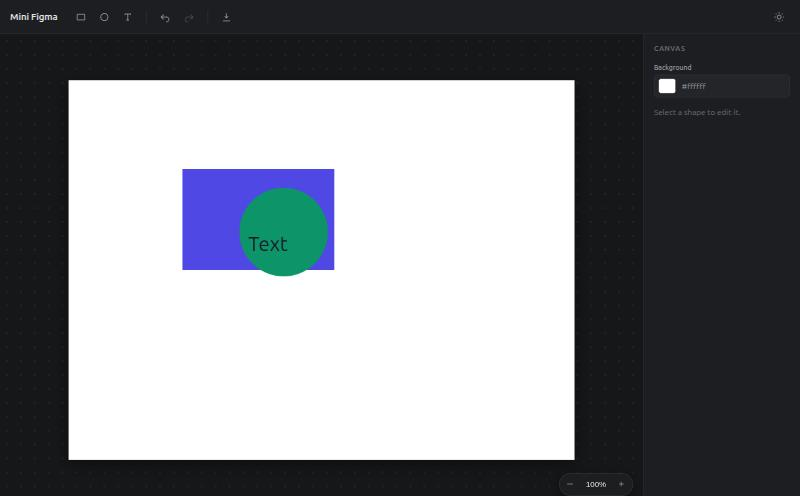
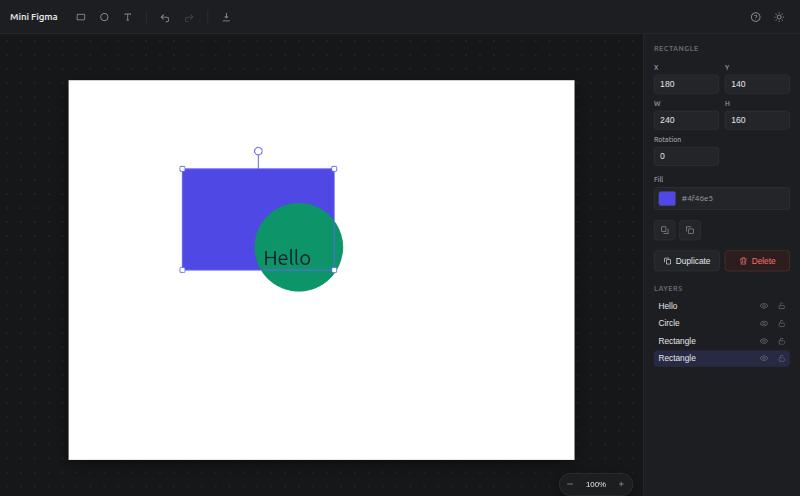
docs: refresh README and screenshots for the new features
Document text editing, artboard sizing, layers, persistence and the full
shortcut set; update the screenshots to the current UI.

diff --git a/README.md b/README.md
@@ -10,28 +10,33 @@ A small Figma-like visual editor built with React, TypeScript and an HTML5 canva
 
 ## Features
 
-- **Shapes** — add rectangles, circles and text to the canvas; they animate in.
-- **Selection** — click to select the topmost shape under the cursor; click empty space to deselect.
-- **Transform** — drag a shape to move it, drag the corner handles to resize, and drag the rotation handle to rotate. Resizing and rotation are fully rotation-aware, so a rotated shape still scales along its own axes.
-- **Properties panel** — edit the selected shape's X, Y, width, height, rotation and fill color, with live updates. With nothing selected, the panel edits the artboard background color.
-- **Duplicate & delete** — duplicate the selection or remove it from the panel or the keyboard.
-- **Undo / redo** — history with per-gesture granularity, available from the toolbar and keyboard.
-- **Zoom & pan** — zoom the artboard toward the cursor, with `+`/`-` controls and a visible percentage; pan by dragging. Selection and transforms work at any zoom.
+- **Shapes** — add rectangles, circles and text; new shapes animate in.
+- **Transform** — drag to move, drag the corner handles to resize, and drag the rotation handle to rotate. Resizing and rotation are rotation-aware, so a rotated shape still scales along its own axes.
+- **Text editing** — double-click a text to edit it in place; the box hugs its content, with font size, weight and color controls.
+- **Properties panel** — edit the selection's position, size, rotation and fill with live updates. With nothing selected it edits the artboard background.
+- **Artboard** — set the canvas width and height or pick a preset (square, 1920×1080, 1280×720, A4); resizing never distorts the shapes.
+- **Layers** — a layer list to select, reorder (bring to front / send to back), lock and hide shapes.
+- **Zoom & pan** — zoom toward the cursor with `Ctrl`+scroll or the `+`/`-` controls, pan with the wheel or by dragging. Selection and transforms work at any zoom.
+- **Undo / redo** — history with per-gesture granularity, from the toolbar or keyboard.
+- **Persistence** — the design, artboard size and theme are saved to `localStorage` and restored on reload.
 - **Theme** — switch between light and dark; the choice is remembered.
-- **Export** — download the artboard as a 2× PNG, always at 100% regardless of the current zoom.
+- **Export** — download the artboard as a 2× PNG, always rendered at 100%.
 
 ## Keyboard shortcuts
 
-| Action        | Shortcut                                           |
-| ------------- | -------------------------------------------------- |
-| Undo          | `Ctrl/Cmd + Z`                                     |
-| Redo          | `Ctrl/Cmd + Shift + Z` or `Ctrl + Y`               |
-| Duplicate     | `Ctrl/Cmd + D`                                     |
-| Delete shape  | `Delete` or `Backspace`                            |
-| Zoom in / out | `Ctrl/Cmd + scroll`                                |
-| Reset zoom    | `Ctrl/Cmd + 0`                                     |
-| Pan canvas    | Drag with `Space` held, or the middle mouse button |
-| Snap rotation | Hold `Shift` while rotating (15°)                  |
+| Action          | Shortcut                                           |
+| --------------- | -------------------------------------------------- |
+| Edit text       | Double-click a text                                |
+| Move selection  | Arrow keys (`Shift` = 10px)                        |
+| Duplicate       | `Ctrl/Cmd + D`                                     |
+| Delete          | `Delete` or `Backspace`                            |
+| Undo            | `Ctrl/Cmd + Z`                                     |
+| Redo            | `Ctrl/Cmd + Shift + Z` or `Ctrl + Y`               |
+| Zoom to cursor  | `Ctrl/Cmd + scroll`                                |
+| Reset zoom      | `Ctrl/Cmd + 0`                                     |
+| Pan canvas      | Drag with `Space` held, or the middle mouse button |
+| Snap rotation   | Hold `Shift` while rotating (15°)                  |
+| Shortcuts panel | `?`                                                |
 
 ## Tech stack
 
@@ -77,7 +82,7 @@ npm run preview   # serve the production build locally
 
 ## Testing
 
-Tests run on Vitest with a jsdom environment and React Testing Library. They cover the geometry and transform math (including rotated hit-testing and resizing), the Zustand store (create / update / delete and undo/redo), and the UI components.
+Tests run on Vitest with a jsdom environment and React Testing Library. They cover the geometry and transform math (including rotated hit-testing and resizing), pan clamping, text measuring, localStorage persistence, the Zustand store (shapes, text editing, layers, canvas size and undo/redo) and the UI components.
 
 ```bash
 npm run test:run
@@ -88,23 +93,32 @@ npm run test:run
 ```
 src/
 ├── components/
-│   ├── Canvas.tsx            # canvas rendering + pointer interactions
+│   ├── Canvas.tsx            # canvas rendering, view transform and pointer input
 │   ├── Toolbar.tsx           # create shapes, undo/redo, export
-│   └── PropertiesPanel.tsx   # edit the selected shape
+│   ├── PropertiesPanel.tsx   # shape, artboard and layer controls
+│   ├── TextEditor.tsx        # in-place text editing overlay
+│   ├── ZoomControls.tsx      # zoom buttons and percentage
+│   ├── ShortcutsHelp.tsx     # keyboard shortcuts panel
+│   ├── ThemeToggle.tsx       # light/dark toggle
+│   └── icons.tsx             # inline SVG icons
 ├── lib/
 │   ├── geometry.ts           # centers, corners, rotation-aware hit testing
 │   ├── transform.ts          # resize and rotation math
 │   ├── render.ts             # shared shape drawing
-│   └── exportPng.ts          # PNG export
+│   ├── text.ts               # text measuring / box fitting
+│   ├── view.ts               # pan clamping
+│   ├── exportPng.ts          # PNG export
+│   ├── persistence.ts        # localStorage autosave
+│   └── theme.ts              # theme persistence
 ├── store/
-│   └── useEditorStore.ts     # Zustand store with history
+│   └── useEditorStore.ts     # Zustand store with history and view state
 ├── constants.ts
 └── types.ts
 ```
 
 ## How it works
 
-Shapes are plain data in a Zustand store (position, size, rotation and fill). The canvas redraws the whole scene on every state change, applying each shape's rotation around its center. Pointer interactions are translated into store updates: hit-testing maps the pointer into each shape's local, unrotated space so selection, resizing and rotation behave correctly at any angle. History snapshots are taken at the start of each gesture, so a single undo reverts a complete move, resize or rotate.
+Shapes are plain data in a Zustand store. The canvas redraws the whole scene on every change inside a pan/zoom view transform, applying each shape's rotation around its center. Pointer input is mapped back through the inverse transform into each shape's local, unrotated space, so selection, resizing and rotation behave correctly at any zoom or angle. History snapshots are taken at the start of each gesture, so a single undo reverts a complete move, resize or rotate; the view and editing state stay out of history. The document autosaves to `localStorage` and is restored on load.
 
 ## License
 
